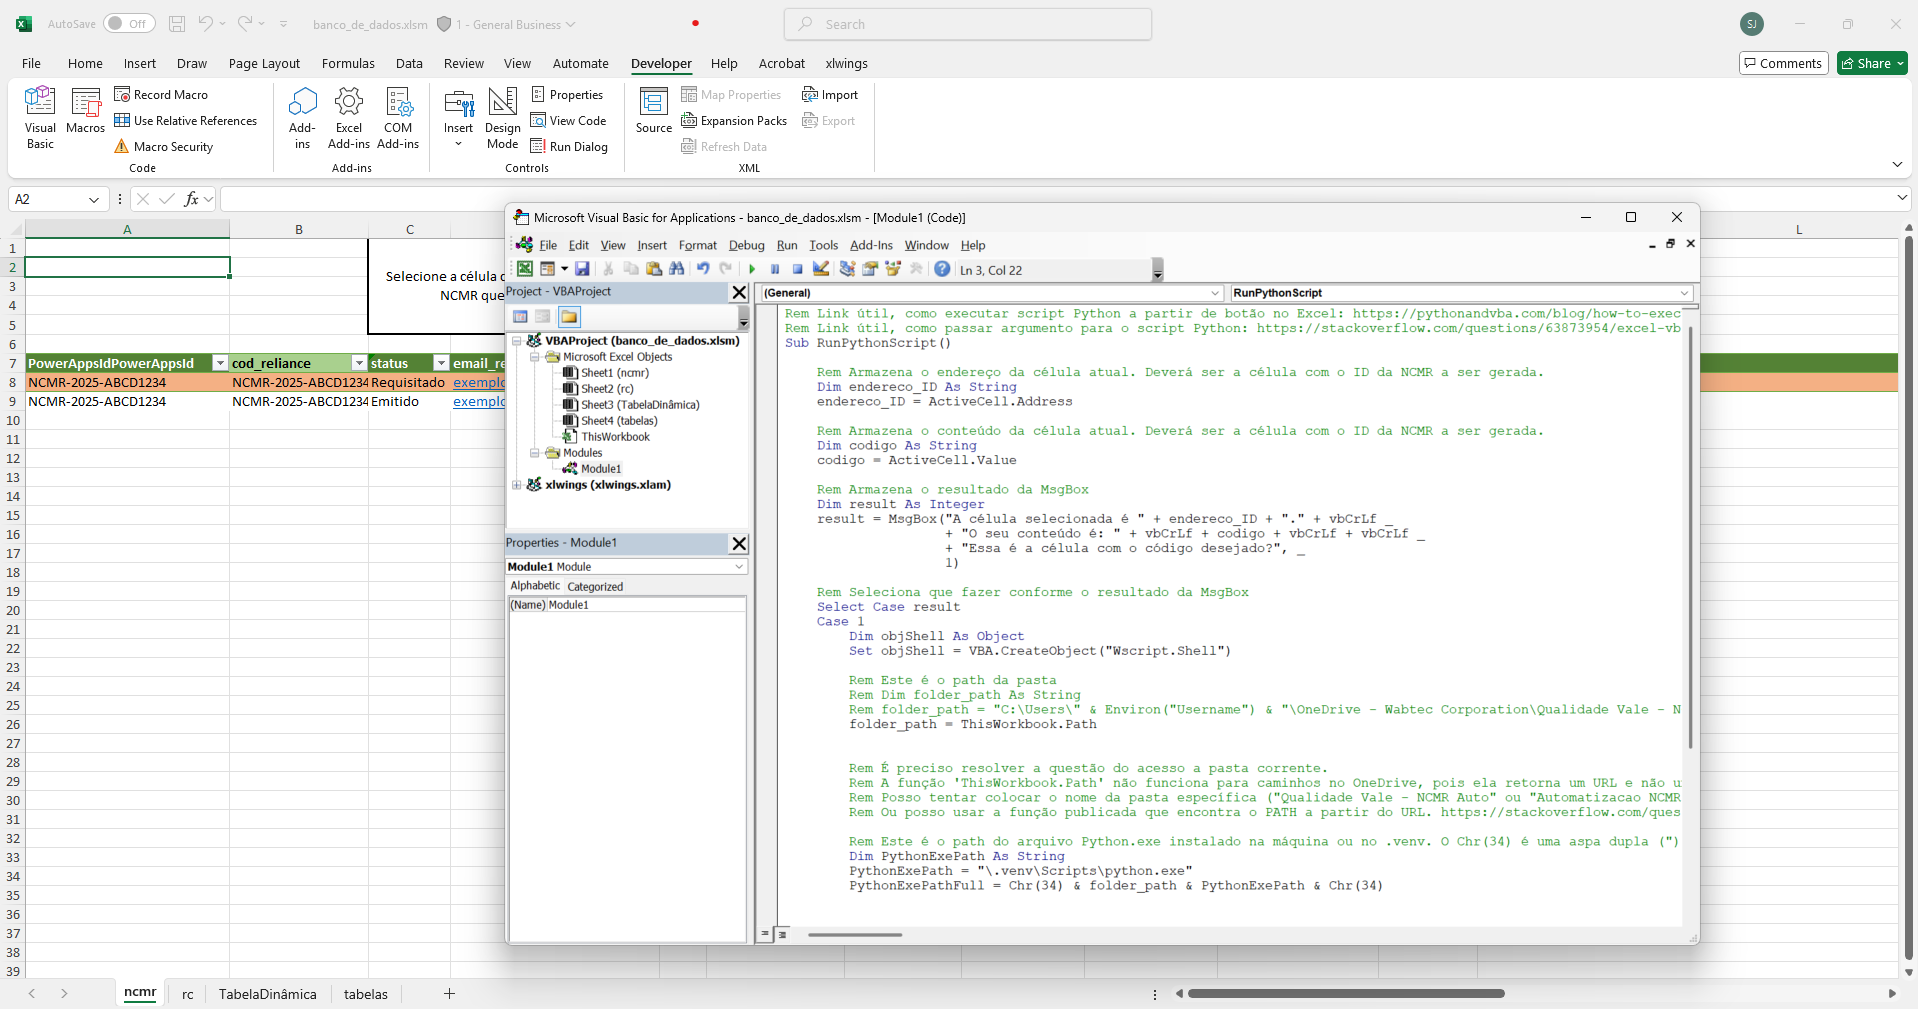
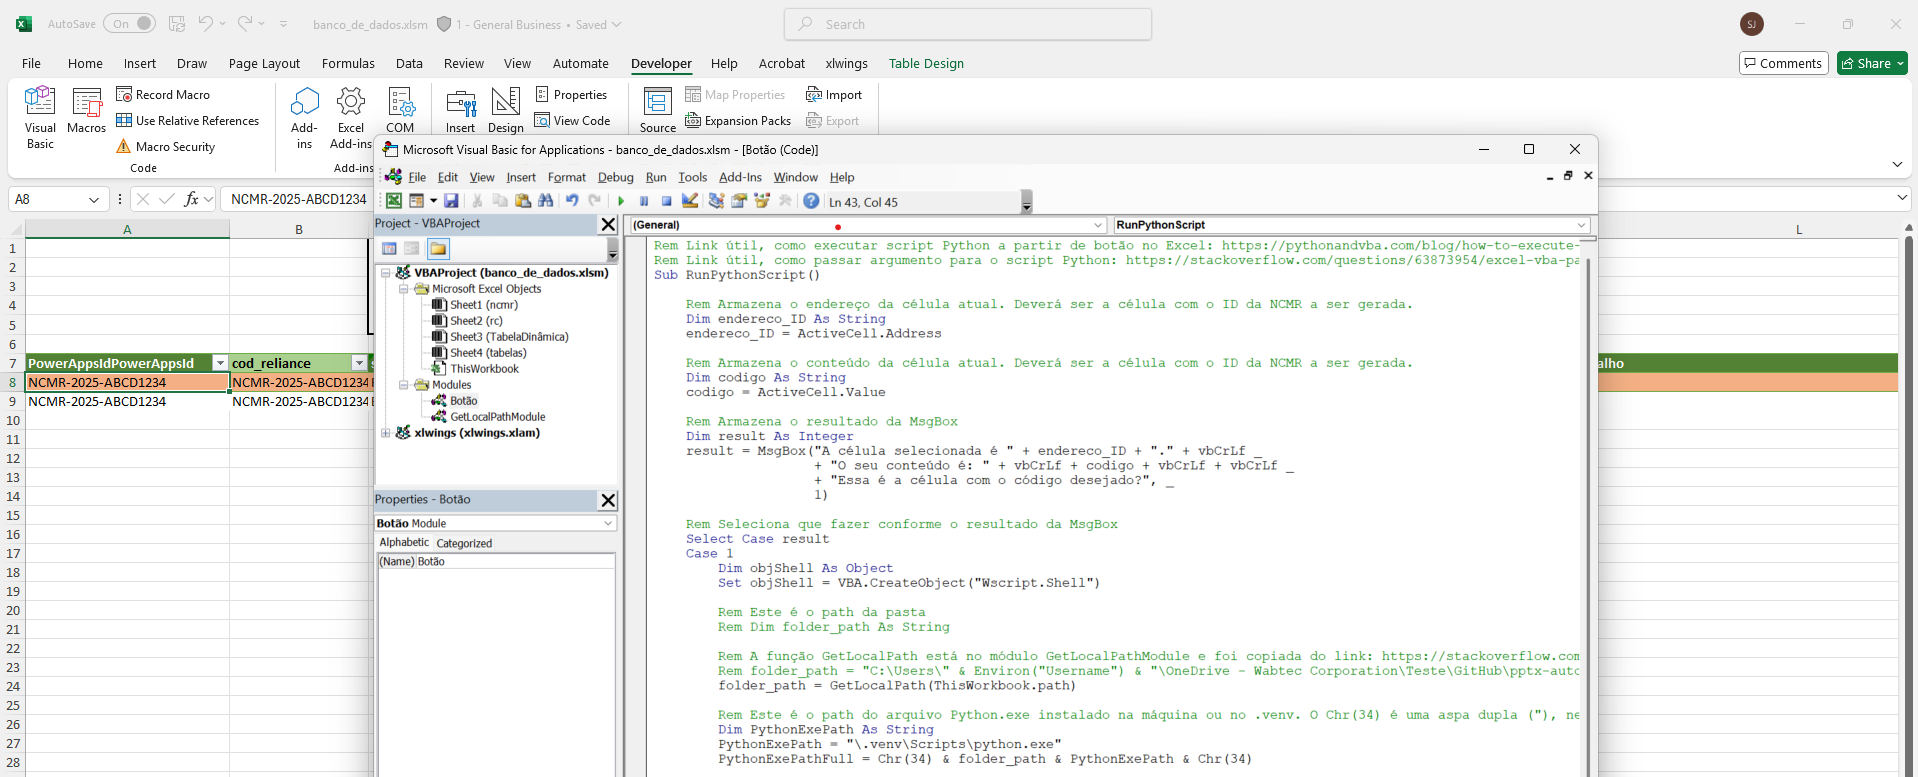
README atualizado para explicar o caminho relativo que o Excel usa agora

diff --git a/README.md b/README.md
@@ -44,7 +44,9 @@
 - [Stack Overflow - Excel VBA pass arguments to Python script](https://stackoverflow.com/questions/63873954/excel-vba-pass-arguments-to-python-script)
 
 <!-- ![VBA Code](./imgs/readme_vba.png) -->
-<img width="959" height="505" alt="vba" src="https://github.com/user-attachments/assets/c5d66954-0a7d-4eac-a97b-572fe7d47672" />
+
+🗂The VBA script accesses the Python file and the .venv through their relative paths within the folder they are located, working with locla files and files synchronized with the cloud (such as Sharepoint or OneDrive). So, it is important that the files relative locations are not modified. So that the relative path could be used even in shared folders in Sharepoint, the following solution was used: [Excel's fullname property with OneDrive - Universal Solution](https://stackoverflow.com/a/73577057/12287457).  
+🗂O script VBA acessa o arquivo Python e a .venv através do caminho relativo dentro da pasta que eles se localizam, funcionando em arquivos locais e em arquivos sincronizados com a nuvem (como em Sharepoint ou OneDrive). Portanto, é importante que as localizações relativas dos arquivos não sejam modificadas. Para que o caminho relativo pudesse ser usado mesmo em pastas compartilhadas em Sharepoint, foi usada a seguinte solução: [Excel's fullname property with OneDrive - Universal Solution](https://stackoverflow.com/a/73577057/12287457).
 
 🛠In the future an alteration may be made, so that the button does not execute the Python script but a .exe file, created from this script. This would save time and effort of configuration of Python in computers that don't have it installed.  
 🛠Futuramente talvez seja feita uma alteração para que o botão não execute o script Python, mas um executável .exe criado a partir desse script. Isso pouparia tempo e esforço de configuração do Python em computadores que não o tem instalado.
